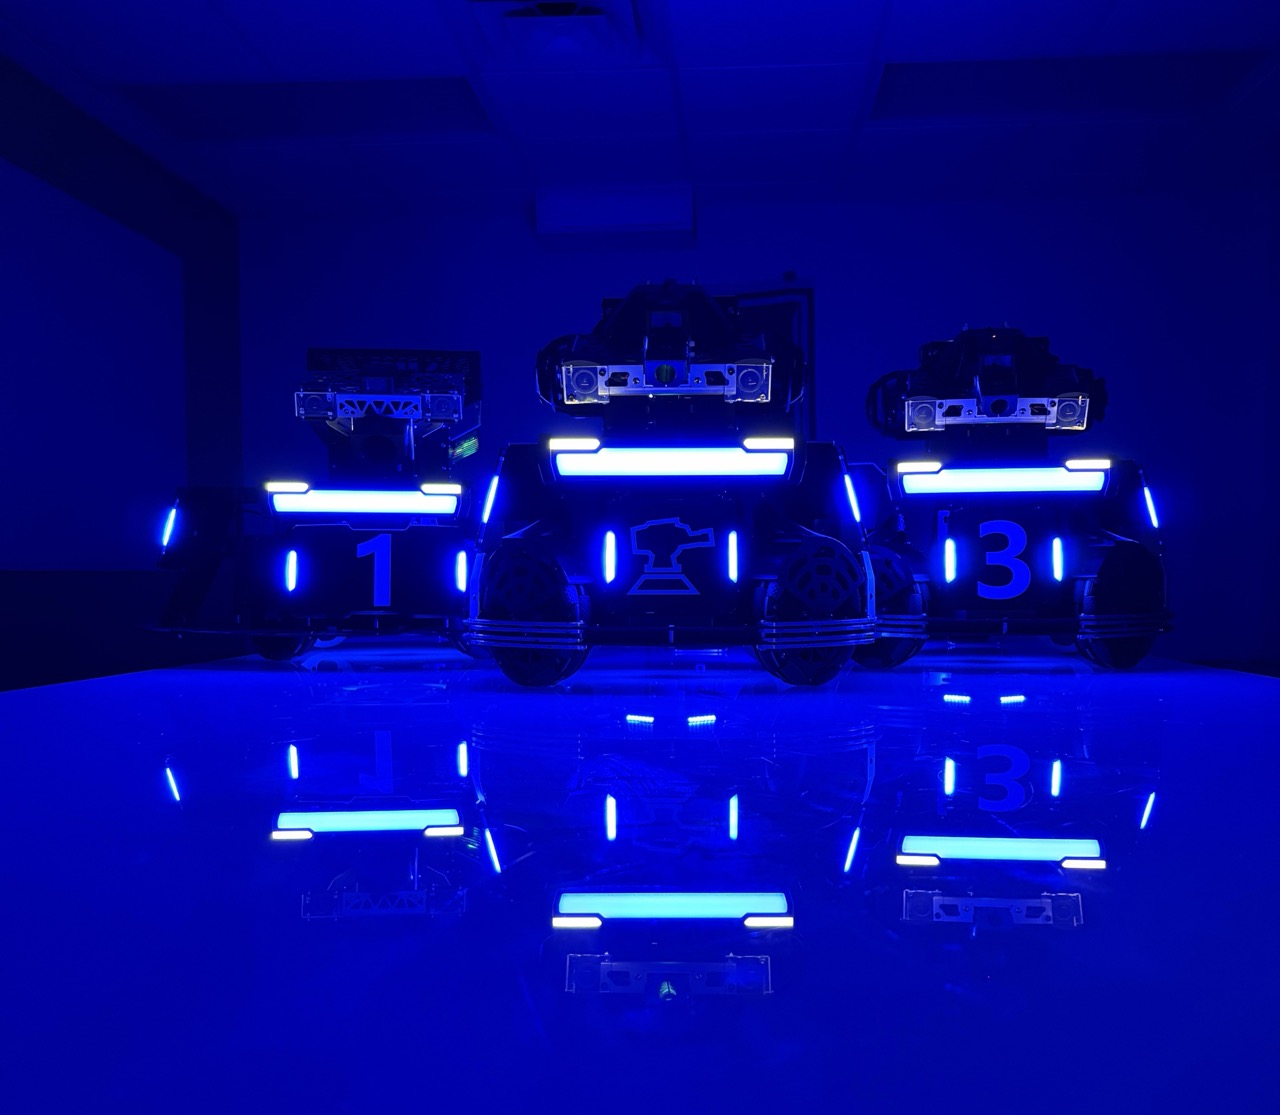
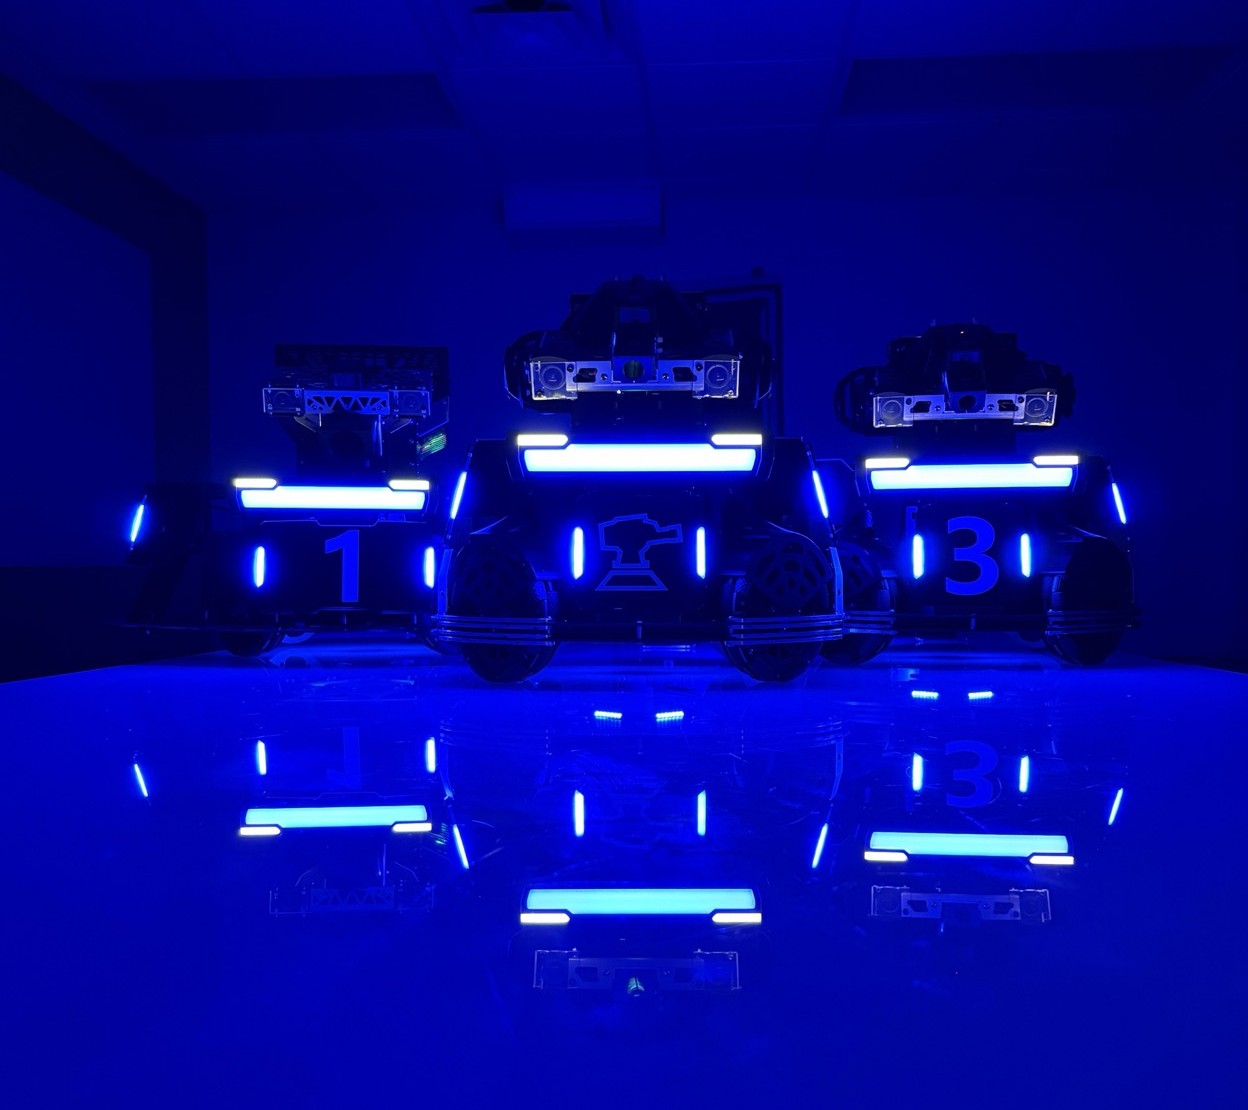
Align the red and blue lineup photos and capitalize homepage headings
Warp the red photo onto the blue one so toggling alliances no longer
shifts the robots, then crop both to their shared area.

diff --git a/index.html b/index.html
@@ -53,7 +53,7 @@
                 <line x1="12" y1="22.08" x2="12" y2="12"/>
               </svg>
             </div>
-            <h4>The 3D model didn't load</h4>
+            <h4>The 3D Model Didn't Load</h4>
             <p class="text-muted mt-sm">Scroll down to see our robots.</p>
           </div>
         </div>
@@ -79,7 +79,7 @@
   <section class="home-meetings" aria-labelledby="meeting-heading">
     <div class="container home-meeting-grid">
       <div class="home-meeting-intro">
-        <h2 id="meeting-heading">Weekly meetings</h2>
+        <h2 id="meeting-heading">Weekly Meetings</h2>
         <p>Idea Forge Commons, CU Boulder</p>
       </div>
       <dl class="home-meeting-times">
@@ -100,7 +100,7 @@
   <section class="lineup" id="robots" data-alliance="blue" aria-labelledby="fleet-heading">
     <div class="container">
       <div class="home-section-head">
-        <h2 id="fleet-heading">Our robots</h2>
+        <h2 id="fleet-heading">Our Robots</h2>
         <p class="home-description">Three robots, designed and built by students, make up our lineup for ARC 3v3 matches.</p>
         <div class="alliance-toggle" role="group" aria-label="Alliance color">
           <button type="button" data-alliance="blue" aria-pressed="true">Blue</button>
@@ -109,8 +109,8 @@
       </div>
 
       <figure class="lineup-photo">
-        <img class="lineup-img lineup-img-blue" src="images/fleet-blue.jpeg" alt="Hero, Sentry, and Infantry lit in blue alliance colors" width="1280" height="1115" loading="lazy">
-        <img class="lineup-img lineup-img-red" src="images/fleet-red.jpeg" alt="Hero, Sentry, and Infantry lit in red alliance colors" width="1280" height="1148" loading="lazy" aria-hidden="true">
+        <img class="lineup-img lineup-img-blue" src="images/fleet-blue.jpeg?v=20261003-1" alt="Hero, Sentry, and Infantry lit in blue alliance colors" width="1248" height="1110" loading="lazy">
+        <img class="lineup-img lineup-img-red" src="images/fleet-red.jpeg?v=20261003-1" alt="Hero, Sentry, and Infantry lit in red alliance colors" width="1248" height="1110" loading="lazy" aria-hidden="true">
       </figure>
 
       <ul class="lineup-list">
@@ -136,7 +136,7 @@
   <section class="reel" aria-labelledby="highlights-heading">
     <div class="container">
       <div class="home-section-head">
-        <h2 id="highlights-heading">Highlight reel</h2>
+        <h2 id="highlights-heading">Highlight Reel</h2>
         <p class="home-description">First-person footage from RoboMaster North America 2025, with our auto-aim at work.</p>
         <a class="home-text-link" href="https://www.youtube.com/watch?v=O2fp67X3vsg" target="_blank" rel="noopener">Watch on YouTube <span aria-hidden="true">↗</span></a>
       </div>
@@ -156,7 +156,7 @@
         <img src="images/pit-crew-arc-2026.jpg" alt="Two CU Robotics members tuning an Infantry robot at ARC 2026" width="1046" height="946" loading="lazy">
       </figure>
       <div class="join-copy">
-        <h2 id="join-heading">Build with us</h2>
+        <h2 id="join-heading">Build With Us</h2>
         <p class="home-description">No experience needed. We'll coach anyone who wants to learn. Register, then come to a Tuesday or Saturday meeting at the Idea Forge. We post schedule changes on Discord.</p>
         <div class="join-actions">
           <a href="https://docs.google.com/forms/d/e/1FAIpQLSfr1fjCq-EcG25cvdB_M74agJZroZQ0sKbubcRbbM5reN8n0Q/viewform" target="_blank" rel="noopener" class="btn btn-apply btn-lg">Register</a>
@@ -169,7 +169,7 @@
   <!-- Support ask: the gold band again, closing the page before the footer. -->
   <section class="support-ask" aria-labelledby="support-heading">
     <div class="container support-ask-grid">
-      <h2 id="support-heading">Want to support the team?</h2>
+      <h2 id="support-heading">Want To Support The Team?</h2>
       <div class="support-ask-links">
         <a class="support-ask-link" href="https://paypal.me/curoboticsteam" target="_blank" rel="noopener">Donate with PayPal</a>
         <a class="support-ask-link" href="docs/sponsorship-packet-2026-27.pdf" target="_blank" rel="noopener">2026–27 sponsorship packet (PDF)</a>
@@ -189,7 +189,7 @@
   <script defer src="js/hero-shader.js?v=20260926-2"></script>
   <!-- Main Scripts -->
   <script src="js/site.js?v=20261003-1"></script>
-  <script src="js/components.js?v=20261003-1"></script>
+  <script src="js/components.js?v=20261003-2"></script>
   <script src="js/main.js?v=20260926-1"></script>
   <script src="js/home.js?v=20260926-1"></script>
   <script src="js/robot-viewer.js?v=20260926-1"></script>
